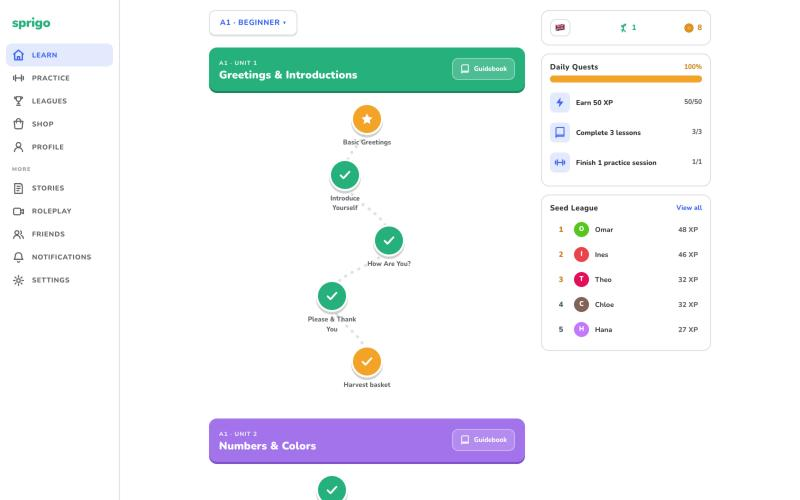
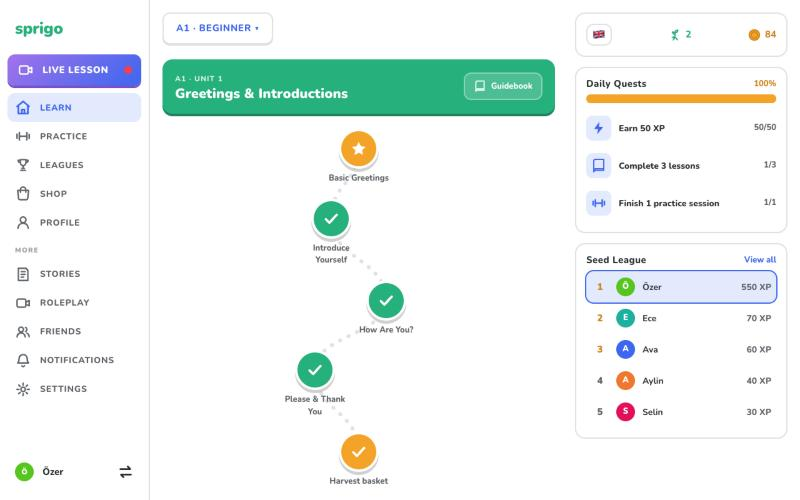
Update README for 1.2.0 with new screenshots

diff --git a/README.md b/README.md
@@ -6,22 +6,36 @@
 
 ![Learning path](docs/screenshots/learn.jpg)
 
+| Live lesson | Practice together |
+| --- | --- |
+| ![Live lesson](docs/screenshots/live.jpg) | ![Practice together](docs/screenshots/practice.jpg) |
+
 | Lessons | Roleplay chat |
 | --- | --- |
 | ![Lesson](docs/screenshots/lesson.jpg) | ![Roleplay](docs/screenshots/roleplay.jpg) |
+
+| AI provider | Text to speech |
+| --- | --- |
+| ![AI provider](docs/screenshots/ai.jpg) | ![Text to speech](docs/screenshots/voice.jpg) |
 
 ## Features
 
 - **Structured course:** English A1 → B2, with 40+ steps per level and a checkpoint at the end of each level. Explanations are in Turkish.
 - **AI-generated lessons:** translate, fill in the blank, match, listen, word bank, error correction and more. Lessons adapt to your recent mistakes.
-- **Speaking:** speech recognition runs inside the app (whisper.cpp), with no extra service to install.
+- **Live lesson:** a video-call style lesson with an animated tutor who talks with you, with live captions. Open the practice panel to do exercises together while the tutor follows along.
+- **Speaking:** speech recognition runs inside the app (whisper.cpp), with no extra service to install. Deepgram is an optional cloud alternative, and **Try** lets you check it with your own voice.
+- **Natural voices:** besides the system voice, Piper (fast, local) and Kokoro (most natural, English only) run on your machine and are downloaded on first use.
 - **Stories and roleplay:** chat or talk with characters in real-life scenes, and get corrections as you go.
 - **Gamification:** streaks, XP, gems, hearts, daily quests, a local league, Match Madness and timed challenges.
-- **Private by default:** your progress stays in a local SQLite database, and API keys are kept in the macOS Keychain. Several profiles can share one computer, optionally with a PIN.
-- Daily reminder, light and dark themes, and an English or Turkish interface.
+- **Private by default:** your progress stays in a local SQLite database, and API keys are kept in the system keychain. Several profiles can share one computer, optionally with a PIN.
+- Daily reminder, light and dark themes, and an interface in English, Turkish, German, French or Spanish.
 - Automatic in-app updates.
 
-## Install (macOS, Apple silicon)
+## Install
+
+Downloads for macOS (Apple silicon and Intel), Windows and Linux are on the [Releases](https://github.com/ozerozdas/sprigo/releases/latest) page.
+
+On macOS:
 
 1. Download the latest `.dmg` from [Releases](https://github.com/ozerozdas/sprigo/releases/latest).
 2. Open it and drag **Sprigo** into **Applications**.
@@ -37,7 +51,7 @@ On first launch, Sprigo looks for a local model server:
 
 - **[Ollama](https://ollama.com/download)** (recommended): install and start it. If no model is installed yet, Sprigo offers to download `qwen3:8b` (about 5.2 GB) for you.
 - **[LM Studio](https://lmstudio.ai):** start its local server and load a model.
-- **Cloud:** you can also use OpenAI, Anthropic or Gemini with your own API key. Pick one in **Settings → AI provider**.
+- **Cloud:** you can also use OpenAI, Anthropic or Gemini with your own API key. Pick one in **Settings → AI provider**; each option has a short note on what it is good at.
 
 ## Development
 
@@ -55,7 +69,7 @@ Courses are plain YAML files in [`courses/`](courses/en.yml). For the architectu
 
 ### Releasing
 
-Bump the version in `package.json`, `src-tauri/tauri.conf.json` and `src-tauri/Cargo.toml`, commit, then push a tag:
+Bump the version in `package.json`, `src-tauri/tauri.conf.json` and `src-tauri/Cargo.toml` (then `cargo update -p sprigo --offline` in `src-tauri` for the lock file), commit, then push a tag:
 
 ```bash
 git tag v0.1.2 && git push origin v0.1.2
